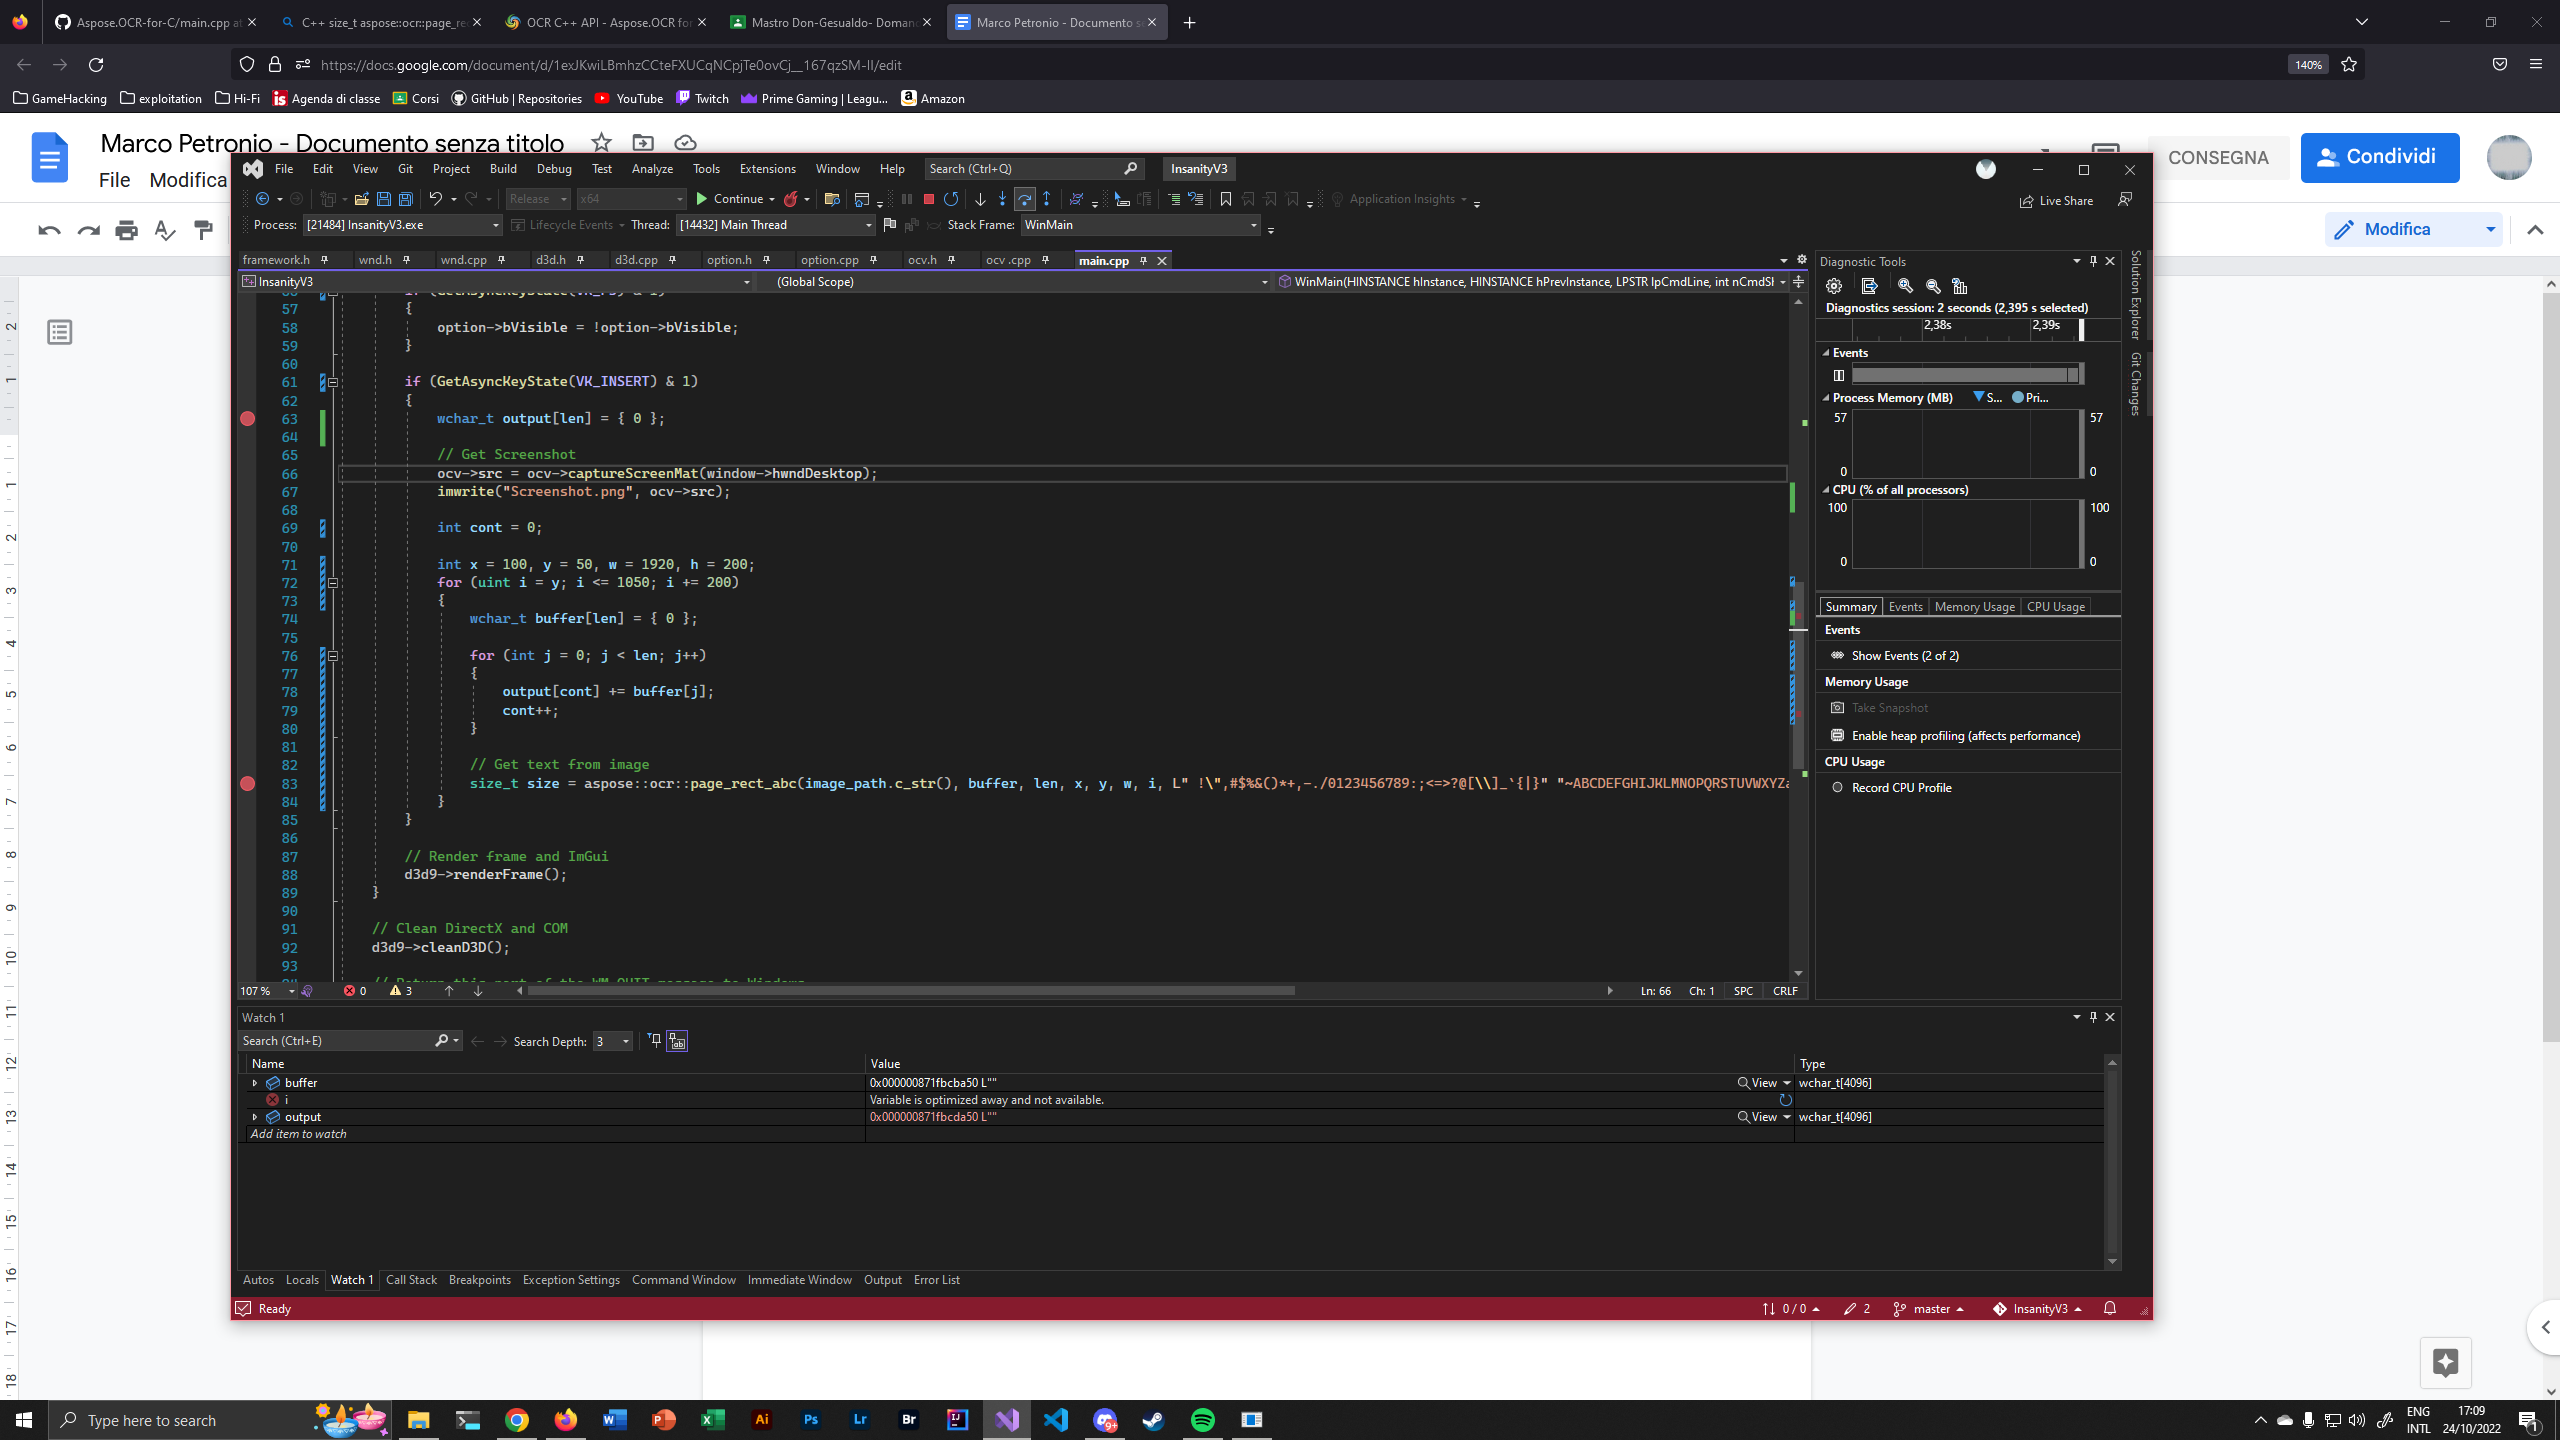
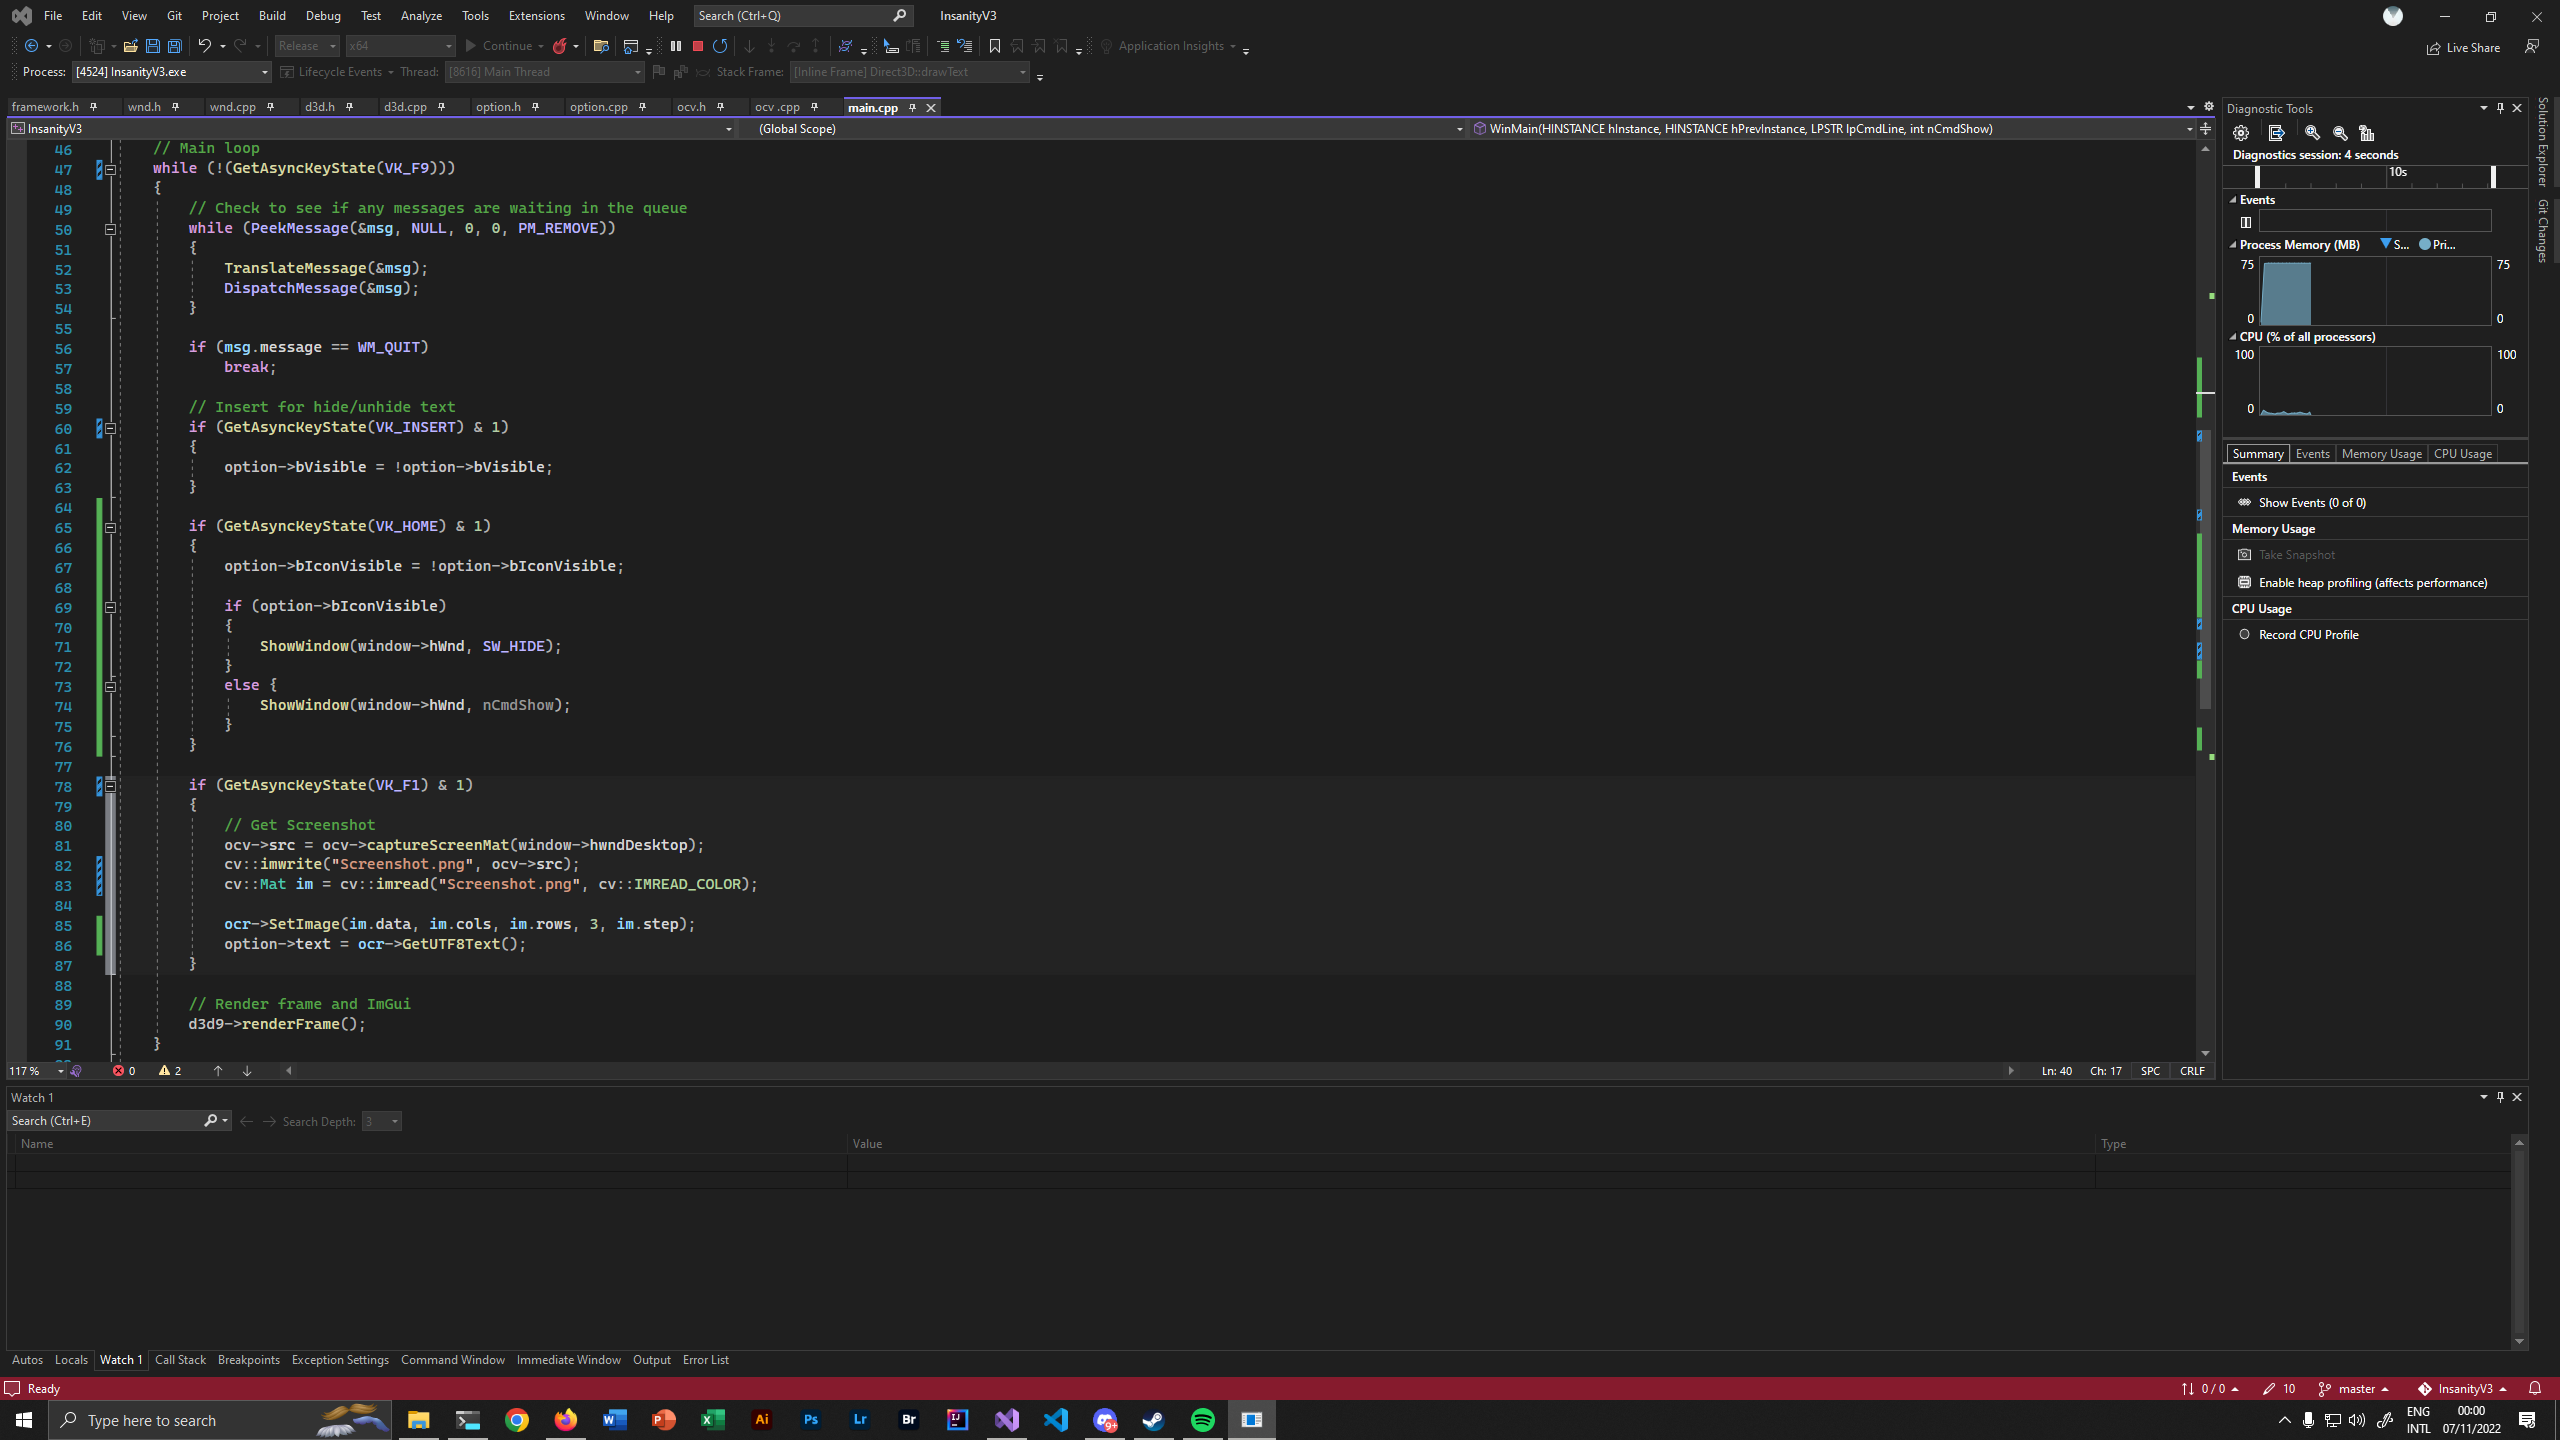
Tesseract OCR implemented, char recognition success

diff --git a/main.cpp b/main.cpp
@@ -32,10 +32,19 @@ int WINAPI WinMain(HINSTANCE hInstance, HINSTANCE hPrevInstance, LPSTR lpCmdLine
     // Set up and initialize Direct3D and ImGui
     d3d9->initD3D(window->hWnd);
 
+    // Initialize tesseract-ocr with English, without specifying tessdata path
+    tesseract::TessBaseAPI* ocr = new tesseract::TessBaseAPI();
+    
+    // Initialize tesseract (eng) and the LSTM OCR engine (deep learning)
+    if (ocr->Init("C:\\src\\TesseractData\\tessdata\\", "eng"))
+        exit(1);
+
+    ocr->SetPageSegMode(tesseract::PSM_AUTO);
+
     MSG msg;
 
     // Main loop
-    while (!(GetAsyncKeyState(VK_HOME)))
+    while (!(GetAsyncKeyState(VK_F9)))
     {
         // Check to see if any messages are waiting in the queue
         while (PeekMessage(&msg, NULL, 0, 0, PM_REMOVE))
@@ -48,17 +57,33 @@ int WINAPI WinMain(HINSTANCE hInstance, HINSTANCE hPrevInstance, LPSTR lpCmdLine
             break;
 
         // Insert for hide/unhide text
-        if (GetAsyncKeyState(VK_F3) & 1)
+        if (GetAsyncKeyState(VK_INSERT) & 1)
         {
             option->bVisible = !option->bVisible;
         }  
 
-        if (GetAsyncKeyState(VK_INSERT) & 1)
+        if (GetAsyncKeyState(VK_HOME) & 1)
+        {
+            option->bIconVisible = !option->bIconVisible;
+
+            if (option->bIconVisible)
+            {
+                ShowWindow(window->hWnd, SW_HIDE);
+            }
+            else {
+                ShowWindow(window->hWnd, nCmdShow);
+            }
+        }
+
+        if (GetAsyncKeyState(VK_F1) & 1)
         {      
             // Get Screenshot  
             ocv->src = ocv->captureScreenMat(window->hwndDesktop);
-            imwrite("Screenshot.png", ocv->src);
+            cv::imwrite("Screenshot.png", ocv->src);
+            cv::Mat im = cv::imread("Screenshot.png", cv::IMREAD_COLOR);
 
+            ocr->SetImage(im.data, im.cols, im.rows, 3, im.step);
+            option->text = ocr->GetUTF8Text();
         }
 
         // Render frame and ImGui 
@@ -67,6 +92,9 @@ int WINAPI WinMain(HINSTANCE hInstance, HINSTANCE hPrevInstance, LPSTR lpCmdLine
 
     // Clean DirectX and COM
     d3d9->cleanD3D();
+
+    // Destroy tess obj 
+    ocr->End();
 
     // Return this part of the WM_QUIT message to Windows
     return msg.wParam;

diff --git a/d3d.cpp b/d3d.cpp
@@ -45,10 +45,8 @@ void Direct3D::renderFrame(void)
 
     /* 3D rendering on the back buffer here */
 
-    if (option->bVisible) {
-
-        drawText((char*)"ExOverlay - marcoigorr", window->SCREEN_WIDTH - 300, (window->SCREEN_HEIGHT / 2) - 100, 255, 255, 255, 255);
-    }
+    if (option->bVisible)
+        drawText(option->text, window->SCREEN_WIDTH - 300, (window->SCREEN_HEIGHT / 2) - 100, 255, 255, 255, 255);
 
     // End d3d scene
     d3ddev->EndScene();
@@ -63,7 +61,7 @@ void Direct3D::cleanD3D(void)
     d3d->Release();
 }
 
-void Direct3D::drawText(char* label, int x, int y, int a, int r, int g, int b)
+void Direct3D::drawText(const char* label, int x, int y, int a, int r, int g, int b)
 {
     RECT rect;
     rect.top = y;

diff --git a/d3d.h b/d3d.h
@@ -11,7 +11,7 @@ public:
 	void renderFrame(void);
 	void cleanD3D(void);
 
-	void drawText(char* label, int x, int y, int a, int r, int g, int b);
+	void drawText(const char* label, int x, int y, int a, int r, int g, int b);
 };
 
 extern Direct3D* d3d9;

diff --git a/ocv.h b/ocv.h
@@ -3,10 +3,10 @@
 class OpnCV {
 public:
 	BITMAPINFOHEADER bi;
-	Mat src;
+	cv::Mat src;
 
 	BITMAPINFOHEADER createBitmapHeader(int width, int height);
-	Mat captureScreenMat(HWND hwnd);
+	cv::Mat captureScreenMat(HWND hwnd);
 };
 
 extern OpnCV* ocv;

diff --git a/option.h b/option.h
@@ -3,7 +3,9 @@
 class Option
 {
 public:
+	const char* text = "";
 	bool bVisible = false;
+	bool bIconVisible = true;
 };
 
 extern Option* option;

diff --git a/framework.h b/framework.h
@@ -11,7 +11,6 @@
 
 // OpenCV
 #include <opencv2/opencv.hpp>
-using namespace cv;
 
 // OCR - character recognition
 #include <tesseract/baseapi.h>

diff --git a/ocv .cpp b/ocv .cpp
@@ -1,5 +1,6 @@
 #include "framework.h"
 #include "ocv.h"
+using namespace cv;
 
 #include "wnd.h"
 
